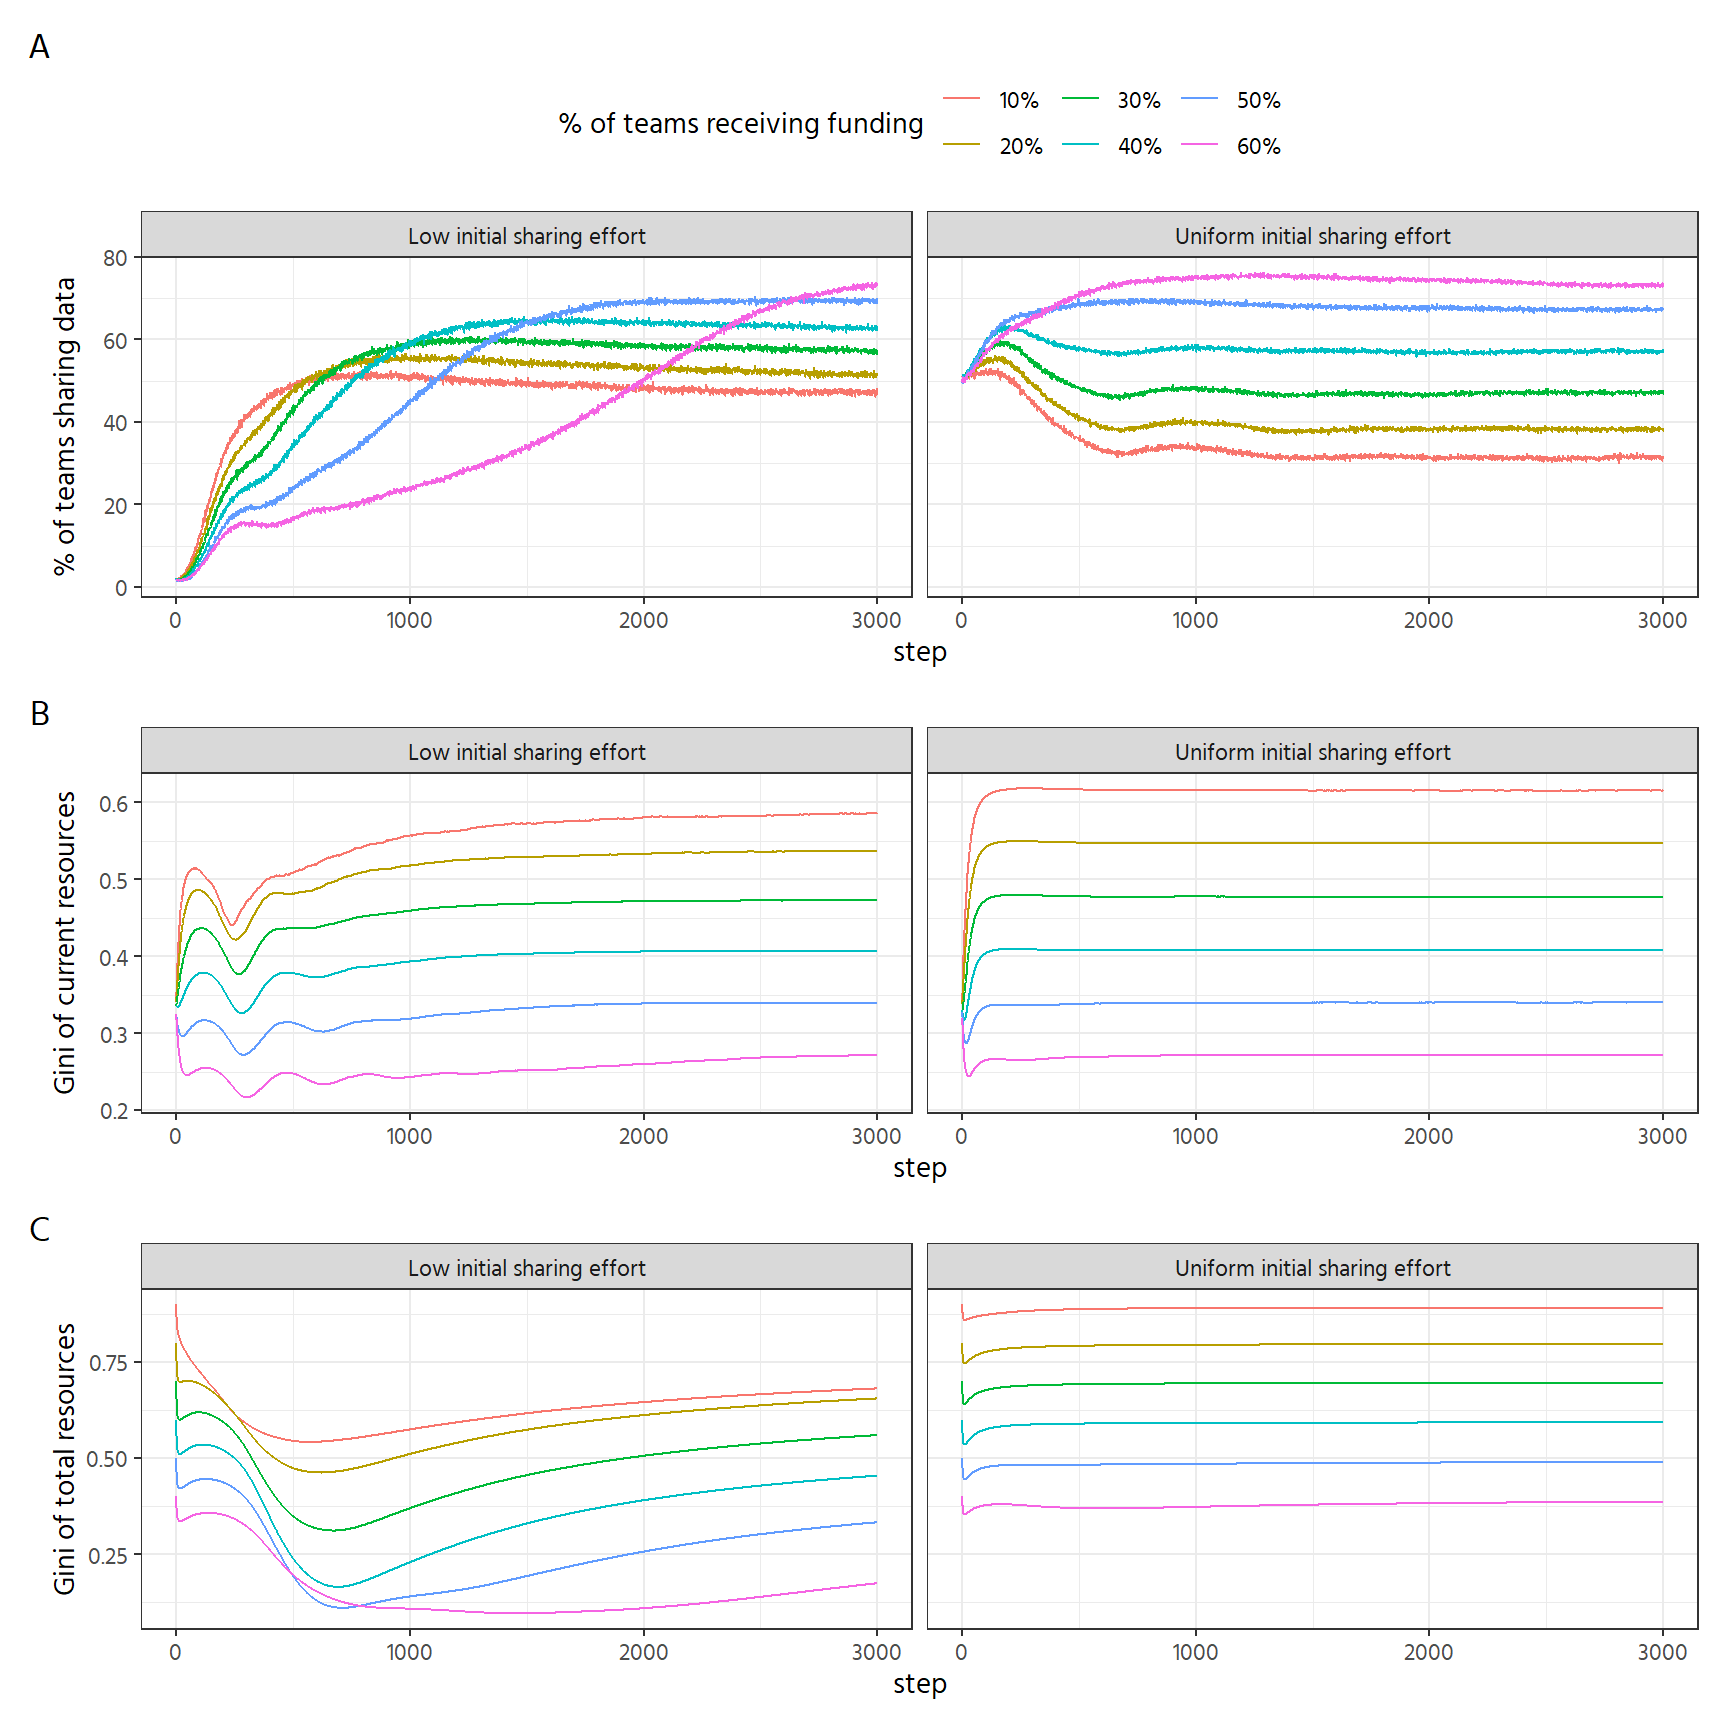
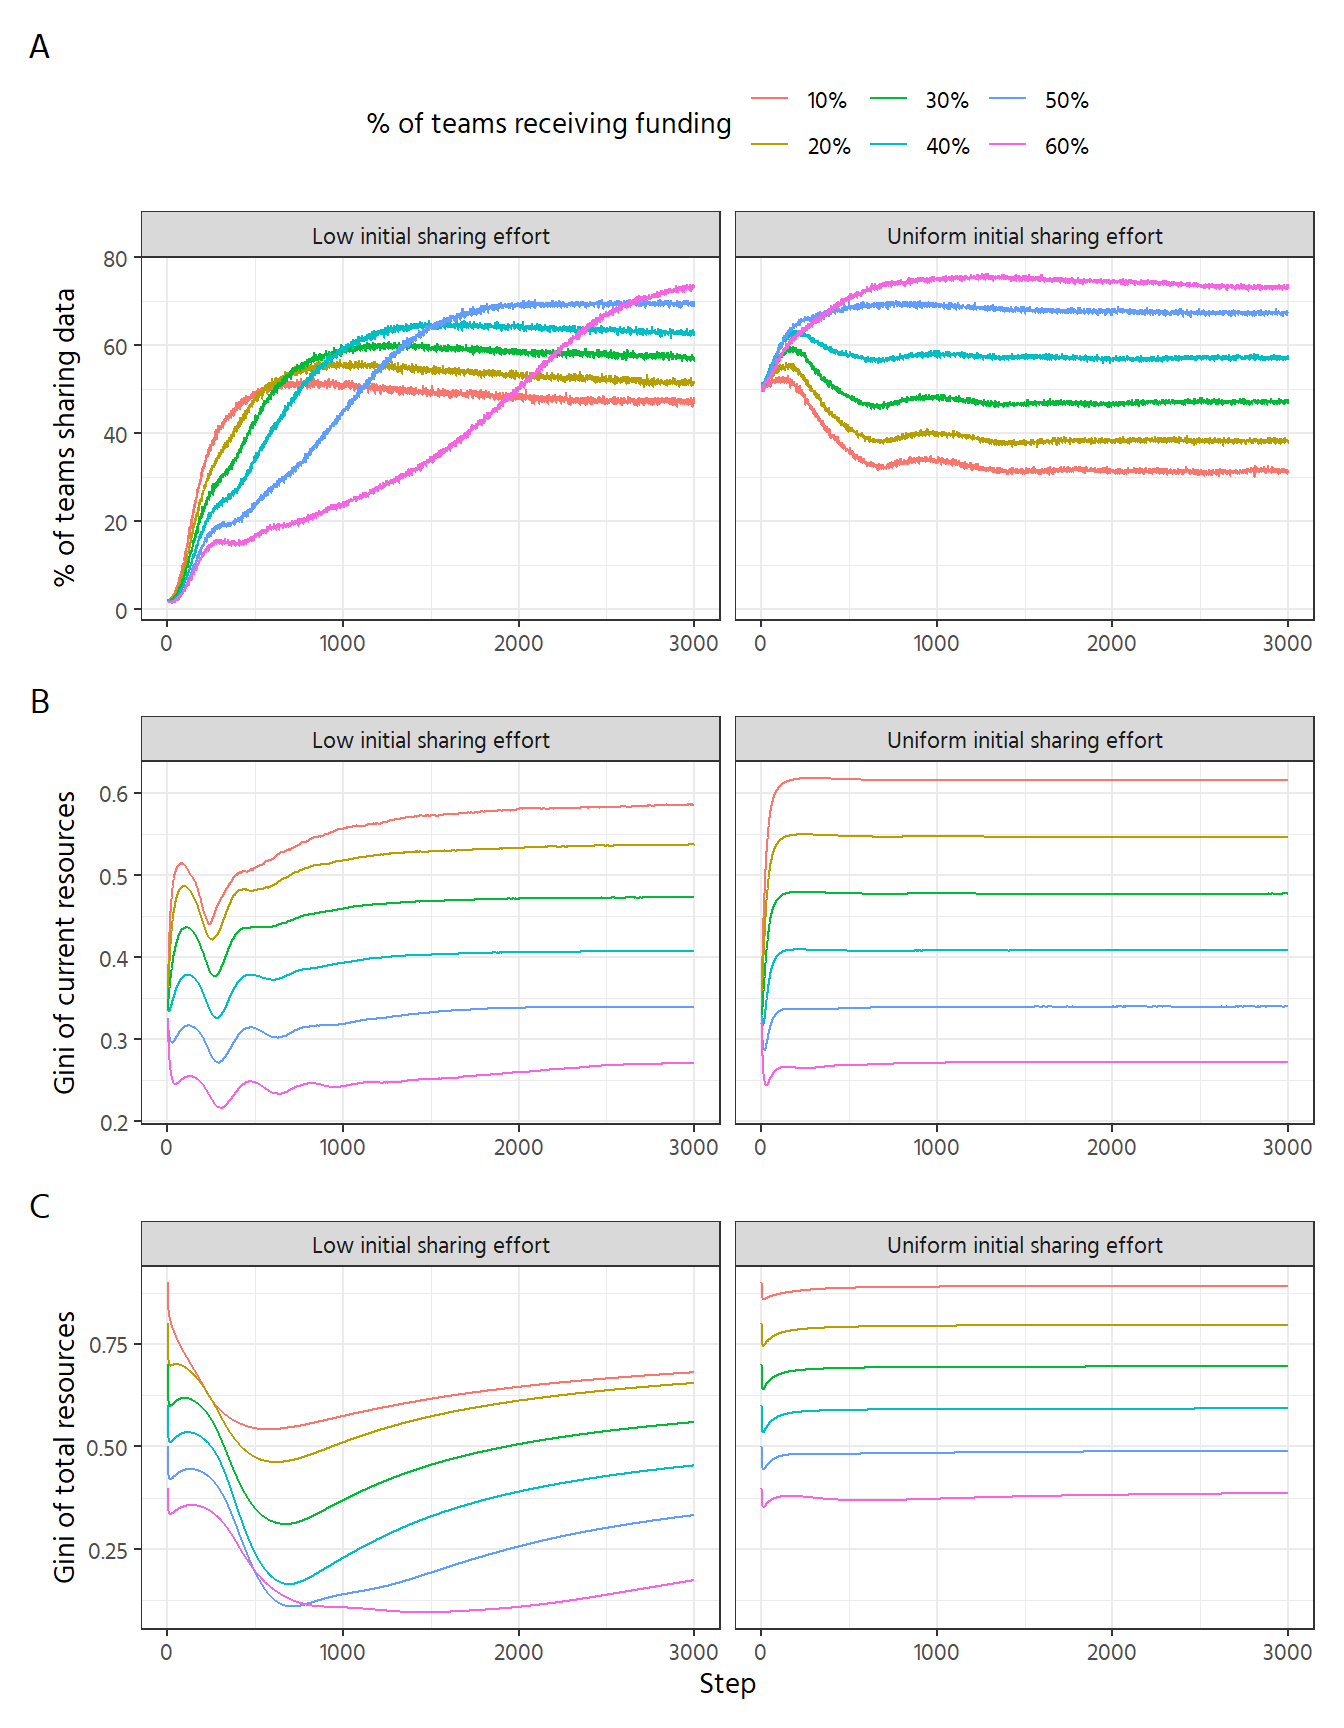
change aspect ratio and reduce clutter on axes

diff --git a/analysis/03-analyse-funder-selectivity.html b/analysis/03-analyse-funder-selectivity.html
@@ -152,30 +152,31 @@ code span.wa { color: #60a0b0; font-weight: bold; font-style: italic; } /* Warni
 <span id="cb1-19"><a href="#cb1-19" aria-hidden="true" tabindex="-1"></a>  <span class="fu">geom_line</span>() <span class="sc">+</span></span>
 <span id="cb1-20"><a href="#cb1-20" aria-hidden="true" tabindex="-1"></a>    <span class="fu">facet_wrap</span>(<span class="fu">vars</span>(max_initial_utility), <span class="at">nrow =</span> n_row) <span class="sc">+</span></span>
 <span id="cb1-21"><a href="#cb1-21" aria-hidden="true" tabindex="-1"></a>    <span class="fu">labs</span>(<span class="at">colour =</span> <span class="st">"% of teams receiving funding"</span>,</span>
-<span id="cb1-22"><a href="#cb1-22" aria-hidden="true" tabindex="-1"></a>       <span class="at">y =</span> <span class="st">"Gini of current resources"</span>)</span>
+<span id="cb1-22"><a href="#cb1-22" aria-hidden="true" tabindex="-1"></a>       <span class="at">y =</span> <span class="st">"Gini of current resources"</span>, <span class="at">x =</span> <span class="cn">NULL</span>)</span>
 <span id="cb1-23"><a href="#cb1-23" aria-hidden="true" tabindex="-1"></a></span>
 <span id="cb1-24"><a href="#cb1-24" aria-hidden="true" tabindex="-1"></a>p2 <span class="ot">&lt;-</span> pdata <span class="sc">%&gt;%</span>  </span>
 <span id="cb1-25"><a href="#cb1-25" aria-hidden="true" tabindex="-1"></a>  <span class="fu">ggplot</span>(<span class="fu">aes</span>(step, mean_cumulative_gini, <span class="at">colour =</span> <span class="fu">as.factor</span>(funded_share))) <span class="sc">+</span></span>
 <span id="cb1-26"><a href="#cb1-26" aria-hidden="true" tabindex="-1"></a>  <span class="fu">geom_line</span>() <span class="sc">+</span></span>
 <span id="cb1-27"><a href="#cb1-27" aria-hidden="true" tabindex="-1"></a>    <span class="fu">facet_wrap</span>(<span class="fu">vars</span>(max_initial_utility), <span class="at">nrow =</span> n_row) <span class="sc">+</span></span>
 <span id="cb1-28"><a href="#cb1-28" aria-hidden="true" tabindex="-1"></a>    <span class="fu">labs</span>(<span class="at">colour =</span> <span class="st">"% of teams receiving funding"</span>,</span>
-<span id="cb1-29"><a href="#cb1-29" aria-hidden="true" tabindex="-1"></a>       <span class="at">y =</span> <span class="st">"Gini of total resources"</span>)</span>
-<span id="cb1-30"><a href="#cb1-30" aria-hidden="true" tabindex="-1"></a></span>
-<span id="cb1-31"><a href="#cb1-31" aria-hidden="true" tabindex="-1"></a>p3 <span class="ot">&lt;-</span> pdata <span class="sc">%&gt;%</span>  </span>
-<span id="cb1-32"><a href="#cb1-32" aria-hidden="true" tabindex="-1"></a>  <span class="fu">ggplot</span>(<span class="fu">aes</span>(step, mean_sharing, <span class="at">colour =</span> <span class="fu">as.factor</span>(funded_share))) <span class="sc">+</span></span>
-<span id="cb1-33"><a href="#cb1-33" aria-hidden="true" tabindex="-1"></a>  <span class="fu">geom_line</span>() <span class="sc">+</span></span>
-<span id="cb1-34"><a href="#cb1-34" aria-hidden="true" tabindex="-1"></a>  <span class="fu">facet_wrap</span>(<span class="fu">vars</span>(max_initial_utility), <span class="at">nrow =</span> n_row) <span class="sc">+</span></span>
-<span id="cb1-35"><a href="#cb1-35" aria-hidden="true" tabindex="-1"></a>  <span class="fu">labs</span>(<span class="at">colour =</span> <span class="st">"% of teams receiving funding"</span>,</span>
-<span id="cb1-36"><a href="#cb1-36" aria-hidden="true" tabindex="-1"></a>       <span class="at">y =</span> <span class="st">"% of teams sharing data"</span>) </span>
-<span id="cb1-37"><a href="#cb1-37" aria-hidden="true" tabindex="-1"></a></span>
-<span id="cb1-38"><a href="#cb1-38" aria-hidden="true" tabindex="-1"></a>p3 <span class="sc">/</span> p1 <span class="sc">/</span> p2 <span class="sc">+</span></span>
-<span id="cb1-39"><a href="#cb1-39" aria-hidden="true" tabindex="-1"></a>  <span class="fu">plot_layout</span>(<span class="at">guides =</span> <span class="st">"collect"</span>) <span class="sc">+</span></span>
-<span id="cb1-40"><a href="#cb1-40" aria-hidden="true" tabindex="-1"></a>  <span class="fu">plot_annotation</span>(<span class="at">tag_levels =</span> <span class="st">"A"</span>) <span class="sc">&amp;</span> <span class="fu">theme</span>(<span class="at">legend.position =</span> <span class="st">"top"</span>)</span></code><button title="Copy to Clipboard" class="code-copy-button"><i class="bi"></i></button></pre></div>
+<span id="cb1-29"><a href="#cb1-29" aria-hidden="true" tabindex="-1"></a>       <span class="at">y =</span> <span class="st">"Gini of total resources"</span>,</span>
+<span id="cb1-30"><a href="#cb1-30" aria-hidden="true" tabindex="-1"></a>       <span class="at">x =</span> <span class="st">"Step"</span>)</span>
+<span id="cb1-31"><a href="#cb1-31" aria-hidden="true" tabindex="-1"></a></span>
+<span id="cb1-32"><a href="#cb1-32" aria-hidden="true" tabindex="-1"></a>p3 <span class="ot">&lt;-</span> pdata <span class="sc">%&gt;%</span>  </span>
+<span id="cb1-33"><a href="#cb1-33" aria-hidden="true" tabindex="-1"></a>  <span class="fu">ggplot</span>(<span class="fu">aes</span>(step, mean_sharing, <span class="at">colour =</span> <span class="fu">as.factor</span>(funded_share))) <span class="sc">+</span></span>
+<span id="cb1-34"><a href="#cb1-34" aria-hidden="true" tabindex="-1"></a>  <span class="fu">geom_line</span>() <span class="sc">+</span></span>
+<span id="cb1-35"><a href="#cb1-35" aria-hidden="true" tabindex="-1"></a>  <span class="fu">facet_wrap</span>(<span class="fu">vars</span>(max_initial_utility), <span class="at">nrow =</span> n_row) <span class="sc">+</span></span>
+<span id="cb1-36"><a href="#cb1-36" aria-hidden="true" tabindex="-1"></a>  <span class="fu">labs</span>(<span class="at">colour =</span> <span class="st">"% of teams receiving funding"</span>,</span>
+<span id="cb1-37"><a href="#cb1-37" aria-hidden="true" tabindex="-1"></a>       <span class="at">y =</span> <span class="st">"% of teams sharing data"</span>, <span class="at">x =</span> <span class="cn">NULL</span>) </span>
+<span id="cb1-38"><a href="#cb1-38" aria-hidden="true" tabindex="-1"></a></span>
+<span id="cb1-39"><a href="#cb1-39" aria-hidden="true" tabindex="-1"></a>p3 <span class="sc">/</span> p1 <span class="sc">/</span> p2 <span class="sc">+</span></span>
+<span id="cb1-40"><a href="#cb1-40" aria-hidden="true" tabindex="-1"></a>  <span class="fu">plot_layout</span>(<span class="at">guides =</span> <span class="st">"collect"</span>) <span class="sc">+</span></span>
+<span id="cb1-41"><a href="#cb1-41" aria-hidden="true" tabindex="-1"></a>  <span class="fu">plot_annotation</span>(<span class="at">tag_levels =</span> <span class="st">"A"</span>) <span class="sc">&amp;</span> <span class="fu">theme</span>(<span class="at">legend.position =</span> <span class="st">"top"</span>)</span></code><button title="Copy to Clipboard" class="code-copy-button"><i class="bi"></i></button></pre></div>
 </details>
 <div class="cell-output-display">
 <div id="fig-funder-selectivity" class="quarto-figure quarto-figure-center anchored">
 <figure class="figure">
-<p><img src="03-analyse-funder-selectivity_files/figure-html/fig-funder-selectivity-1.png" class="img-fluid figure-img" width="864"></p>
+<p><img src="03-analyse-funder-selectivity_files/figure-html/fig-funder-selectivity-1.png" class="img-fluid figure-img" width="672"></p>
 <p></p><figcaption class="figure-caption">Figure&nbsp;1: Gini index and % of groups sharing data dependent on grant size</figcaption><p></p>
 </figure>
 </div>

diff --git a/analysis/03-analyse-funder-selectivity.md b/analysis/03-analyse-funder-selectivity.md
@@ -41,21 +41,22 @@ p1 <- pdata %>%
   geom_line() +
     facet_wrap(vars(max_initial_utility), nrow = n_row) +
     labs(colour = "% of teams receiving funding",
-       y = "Gini of current resources")
+       y = "Gini of current resources", x = NULL)
 
 p2 <- pdata %>%  
   ggplot(aes(step, mean_cumulative_gini, colour = as.factor(funded_share))) +
   geom_line() +
     facet_wrap(vars(max_initial_utility), nrow = n_row) +
     labs(colour = "% of teams receiving funding",
-       y = "Gini of total resources")
+       y = "Gini of total resources",
+       x = "Step")
 
 p3 <- pdata %>%  
   ggplot(aes(step, mean_sharing, colour = as.factor(funded_share))) +
   geom_line() +
   facet_wrap(vars(max_initial_utility), nrow = n_row) +
   labs(colour = "% of teams receiving funding",
-       y = "% of teams sharing data") 
+       y = "% of teams sharing data", x = NULL) 
 
 p3 / p1 / p2 +
   plot_layout(guides = "collect") +
@@ -63,6 +64,6 @@ p3 / p1 / p2 +
 ```
 
 ::: {.cell-output-display}
-![Gini index and % of groups sharing data dependent on grant size](03-analyse-funder-selectivity_files/figure-html/fig-funder-selectivity-1.png){#fig-funder-selectivity width=864}
+![Gini index and % of groups sharing data dependent on grant size](03-analyse-funder-selectivity_files/figure-html/fig-funder-selectivity-1.png){#fig-funder-selectivity width=672}
 :::
 :::
